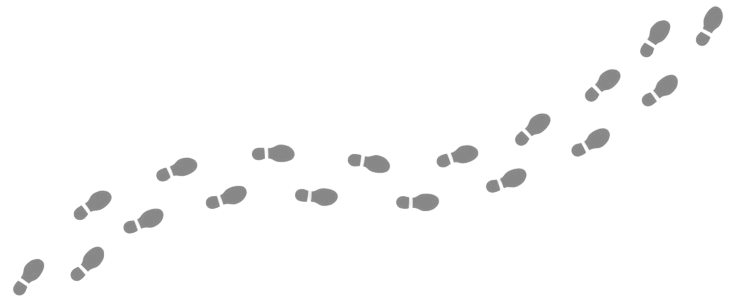
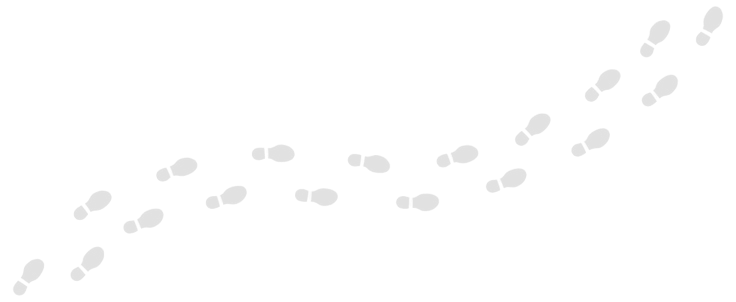
Current_color_scheme

diff --git a/src/css/base.css b/src/css/base.css
@@ -3,7 +3,7 @@ body {
   font-family: 'Quicksand', sans-serif;
   margin: 0;
   padding: 0;
-  background-color: #E7F2D8;
+  background-color: #F2E9E4;
   color: #331a00;
   line-height: 1.6;
 }
@@ -16,29 +16,12 @@ header {
     height: 100px; /* Пример */
 }
 
-/* Футер */
-footer {
-  background-color: #fce4ec;
-  text-align: center;
-  padding: 15px;
-  margin-top: 30px;
-  font-size: 14px;
-  color: #696969;
-}
-
-
-.container {
-    max-width: 1200px; /* Максимальная ширина */
-    margin: 0 auto; /* Центрируем */
-    padding: 0 20px; /* Отступы слева/справа */
-}
-
 .main-header {
   text-align: center;
   background-image: url("../img/steps.png");
   background-size: cover;
   background-position: center;
-  background-color: #C4A384;
+  background-color: #6B5B4E;
   position: relative;
   width: 100%;
   height: 300px;
@@ -72,6 +55,11 @@ footer {
   margin-top: 20px;
 }
 
+.container {
+    max-width: 1200px; /* Максимальная ширина */
+    margin: 0 auto; /* Центрируем */
+    padding: 0 20px; /* Отступы слева/справа */
+}
 
 .service {
   text-align: center;
@@ -111,4 +99,14 @@ footer {
 
 .section:first-of-type {
   margin-top: 80px;
+}
+
+/* Футер */
+footer {
+  background-color: #E9E2DD;
+  text-align: center;
+  padding: 15px;
+  margin-top: 30px;
+  font-size: 14px;
+  color: #696969;
 }

diff --git a/src/css/components/buttons.css b/src/css/components/buttons.css
@@ -1,26 +1,8 @@
-.review-button {
-  text-decoration: none;
-  margin-top: 25px;
-  background-color: #7B3F00;
-  border: none;
-  padding: 12px 25px;
-  font-size: 16px;
-  border-radius: 25px;
-  cursor: pointer;
-  transition: background-color 0.3s ease, transform 0.2s ease;
-}
-
-.review-button:hover {
-  background-color: #A86B32;
-  transform: scale(1.05);
-}
-
-
 /* Кнопка CTA*/
 .cta-button {
   text-decoration: none;
   margin-top: 25px;
-  background-color: #7B3F00;
+  background-color: #D98C7C;
   border: none;
   padding: 12px 25px;
   font-size: 16px;
@@ -30,11 +12,33 @@
 }
 
 .cta-button:hover {
-  background-color: #A86B32;
+  background-color: #C06B5A;
   transform: scale(1.05);
 }
 
 .cta-button a {
+  text-decoration: none;
+  color: #1D0200;
+}
+
+.review-button {
+  text-decoration: none;
+  margin-top: 25px;
+  background-color: #D98C7C;
+  border: none;
+  padding: 12px 25px;
+  font-size: 16px;
+  border-radius: 25px;
+  cursor: pointer;
+  transition: background-color 0.3s ease, transform 0.2s ease;
+}
+
+.review-button:hover {
+  background-color: #C06B5A;
+  transform: scale(1.05);
+}
+
+.review-button a {
   text-decoration: none;
   color: #1D0200;
 }

diff --git a/src/css/components/navbar.css b/src/css/components/navbar.css
@@ -8,16 +8,17 @@
     justify-content: space-between;
     align-items: center;
     padding: 10px 20px;
-    background-color: #D9BFA3;
+    background-color: #F3E6E9;
     box-shadow: 0 2px 10px rgba(0, 0, 0, 0.1);
     transition: none;
 }
 
 .navbar-logo {
     font-size: 20px;
-    color: #331a00;
+    color: #B97D5B;
     text-decoration: none;
     font-weight: bold;
+    transition: color 0.3s ease;
 }
 
 .navbar-menu {
@@ -30,13 +31,17 @@
 
 .navbar-menu li a {
     text-decoration: none;
-    color: #331a00;
+    color: #B97D5B;
     font-weight: 500;
     transition: color 0.3s ease;
 }
 
 .navbar-menu li a:hover {
-    color: #4A3C31;
+    color: #C06B5A;
+}
+
+.navbar-logo:hover {
+    color: #C06B5A;
 }
 
 @media (max-width: 768px) {

diff --git a/index.html b/index.html
@@ -82,11 +82,7 @@
         <section id="reviews" class="section">
             <h4>Отзывы</h4>
             <div>
-                <input id="userInput" type="text"
-                placeholder="Введите отзыв:">
-                <button class="review-button">Оставить отзыв?</button>
-                <div id="error"></div>
-                <div id="reviews"></div>
+                <button class="review-button" ><a href="https://2gis.ru/vladivostok/geo/3519072864091390/131.989273%2C43.374941/tab/reviews?m=131.990599%2C43.373911%2F17.67", target="_blank">Оставитьте отзыв в 2ГИС!</a></button>
             </div>
         </section>
 

diff --git a/src/css/exColors.css b/src/css/exColors.css
@@ -1,0 +1,8 @@
+.exColor {
+    background-color: #FFEDE7; /*Очень светлый кремовый
+*/
+    background-color: #D98C7C; /*для кнопок однозначно(уже) Тёплый розово-коричневый, хорошо выделяется
+*/
+    background-color: #C06B5A; /*Темнее кнопок, контрастно и приятно
+*/
+}
